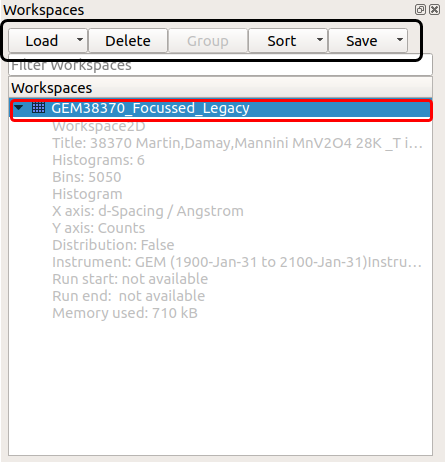
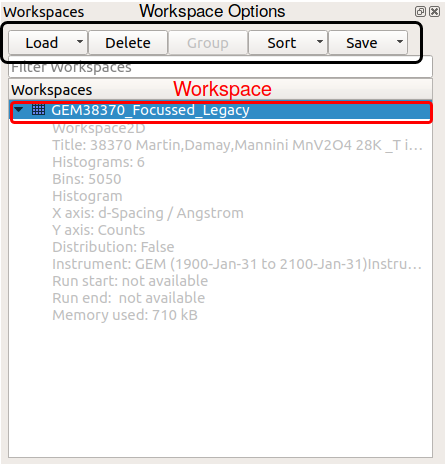
Index half completed and starter files

diff --git a/docs/source/workbench/index.rst b/docs/source/workbench/index.rst
@@ -33,39 +33,76 @@ These can be dragged away and out of the main window docks. Examples can be foun
 Workspace Toolbox
 -----------------
 
-# Investigate using class directives to force this to line up properly
-
 .. image:: ../images/Workbench/Workspaces/WorkspaceWidget.png
     :height: 200
     :width: 150
     :alt: Workspace Toolbox
-    :align: left
+    :align: center
 
 The :ref:`WorkbenchWorkspaceToolbox` is a key part of workbench and if a you are familiar with MantidPlot it function
-very similarly. From here you can see all of the :ref:`Workspace`s currently available to the User. Here you can load,
+very similarly. From here you can see all of the workspaces currently available to the User. Here you can load,
 save, group, delete, sort, plot, and more a breakdown of these features can be found here:
-:ref:`WorkbenchWorkspaceToolbox`.
+:ref:`WorkbenchWorkspaceToolbox`
+
 
 Algorithm Toolbox
 -----------------
 
+.. image:: ../images/Workbench/AlgorithmWidget.png
+    :height: 200
+    :width: 150
+    :alt: Workspace Toolbox
+    :align: center
+
+The :ref:`WorkbenchAlgorithmToolbox` is another key part of the workbench, once again if you are familiat with
+MantidPlot it functions very similarly. From here you can access and run all of the algorithms that Mantid Workbench has
+to offer to it's users. To find algorithms there are two options for navigation, if you know the name then doing a
+search in the search bar, the other option is selecting it's category and navigating utilising the menu.
+
 Script Window
 -------------
+.. image:: ../images/Workbench/Editor/EditorWidget.png
+
+The :ref:`WorkbenchScriptWindow` is another key part of the workbench. The script window allows you to write a python
+script which integrates with the Mantid framework and operate on the data loaded in via the workspaces. The script
+window contains a Status bar, multiple tabs for different scripts, the ability to play, and the ability to stop
+alongside some further options explored more here: :ref:`WorkbenchScriptWindow`
 
 Message Window
 --------------
+.. image:: ../images/Workbench/MessageWindow/MessagesWidgetSmall.png
+
+All of the output from your scripts and algorithm's ran from interfaces or other buttons will be output here. This is
+alongside the ability change the logging level. The logging level has 5 different options to display the right level of
+detail for you, all this and more is discussed further here: :ref:`WorkbenchMessagesWindow`
 
 Main Window Menu
 ----------------
+The :ref:`WorkbenchWorkspaceToolbox` is a key part of workbench and if a you are familiar with MantidPlot it function
+very similarly. From here you can see all of the :ref:`Workspace` s currently available to the User. Here you can load,
+save, group, delete, sort, plot, and more a breakdown of these features can be found here:
+:ref:`WorkbenchWorkspaceToolbox` .
 
 Plot Toolbox
 ------------
+The :ref:`WorkbenchWorkspaceToolbox` is a key part of workbench and if a you are familiar with MantidPlot it function
+very similarly. From here you can see all of the :ref:`Workspace` s currently available to the User. Here you can load,
+save, group, delete, sort, plot, and more a breakdown of these features can be found here:
+:ref:`WorkbenchWorkspaceToolbox` .
 
 IPython Console
 ---------------
+The :ref:`WorkbenchWorkspaceToolbox` is a key part of workbench and if a you are familiar with MantidPlot it function
+very similarly. From here you can see all of the :ref:`Workspace` s currently available to the User. Here you can load,
+save, group, delete, sort, plot, and more a breakdown of these features can be found here:
+:ref:`WorkbenchWorkspaceToolbox` .
 
 Plot Window
 -----------
+The :ref:`WorkbenchWorkspaceToolbox` is a key part of workbench and if a you are familiar with MantidPlot it function
+very similarly. From here you can see all of the :ref:`Workspace` s currently available to the User. Here you can load,
+save, group, delete, sort, plot, and more a breakdown of these features can be found here:
+:ref:`WorkbenchWorkspaceToolbox` .
 
 Overall Workbench Diagram
 --------------------------

diff --git a/docs/source/workbench/workspacetreewidget.rst b/docs/source/workbench/workspacetreewidget.rst
@@ -1,23 +1,15 @@
 .. _WorkbenchWorkspaceToolbox:
 
 ================
-Workspace Widget
+Workspace Toolbox
 ================
 The workbench usage of the Workspace Widget is exactly the same as the previous implementation in MantidPlot.
 
 .. image:: ../images/Workbench/Workspaces/WorkspaceWidgetDiagram.png
+    :align: left
 
-Legend
-------
-.. raw:: html
+Workspace
+---------
 
-    <style>
-        .light-red {color:#FF0000}
-        .black {color:#000000}
-    </style>
-
-.. role:: light-red
-.. role:: black
-
-- :light-red:`Workspace list`
-- :black:`Workspace List Options`
+Workspace Options
+-----------------

diff --git a/docs/source/workbench/scriptwindow.rst b/docs/source/workbench/scriptwindow.rst
@@ -1,0 +1,27 @@
+.. _WorkbenchScriptWindow:
+
+=======================
+Workbench Script Window
+=======================
+
+.. image:: ../images/Workbench/Editor/EditorWidgetDiagram.png
+
+Editor Tabbing
+---------------
+
+.. image:: ../images/Workbench/Editor/EditorWidgetTabOptions.png
+
+Editor Options
+--------------
+
+.. image:: ../images/Workbench/Editor/EditorWidgetOptions.png
+
+Default Imports
+---------------
+
+Some text
+
+Editor Status
+-------------
+
+.. image:: ../images/Workbench/Editor/EditorStatusState.png

diff --git a/docs/source/workbench/messageswindow.rst b/docs/source/workbench/messageswindow.rst
@@ -1,0 +1,14 @@
+.. _WorkbenchMessagesWindow:
+
+===============
+Messages Window
+===============
+
+.. image:: ../images/Workbench/MessageWindow/MessagesWidget.png
+    :align: right
+    :scale: 50%
+
+Logging Level
+-------------
+
+.. image:: ../images/Workbench/MessageWindow/MessagesWidgetContextMenu.png

diff --git a/docs/source/workbench/algorithmlistwidget.rst b/docs/source/workbench/algorithmlistwidget.rst
@@ -1,1 +1,9 @@
-.. _WorkbenchAlgorithmList:
+.. _WorkbenchAlgorithmToolbox:
+
+=================
+Algorithm Toolbox
+=================
+
+.. image:: ../images/Workbench/AlgorithmWidgetDiagram
+    :align: left
+
